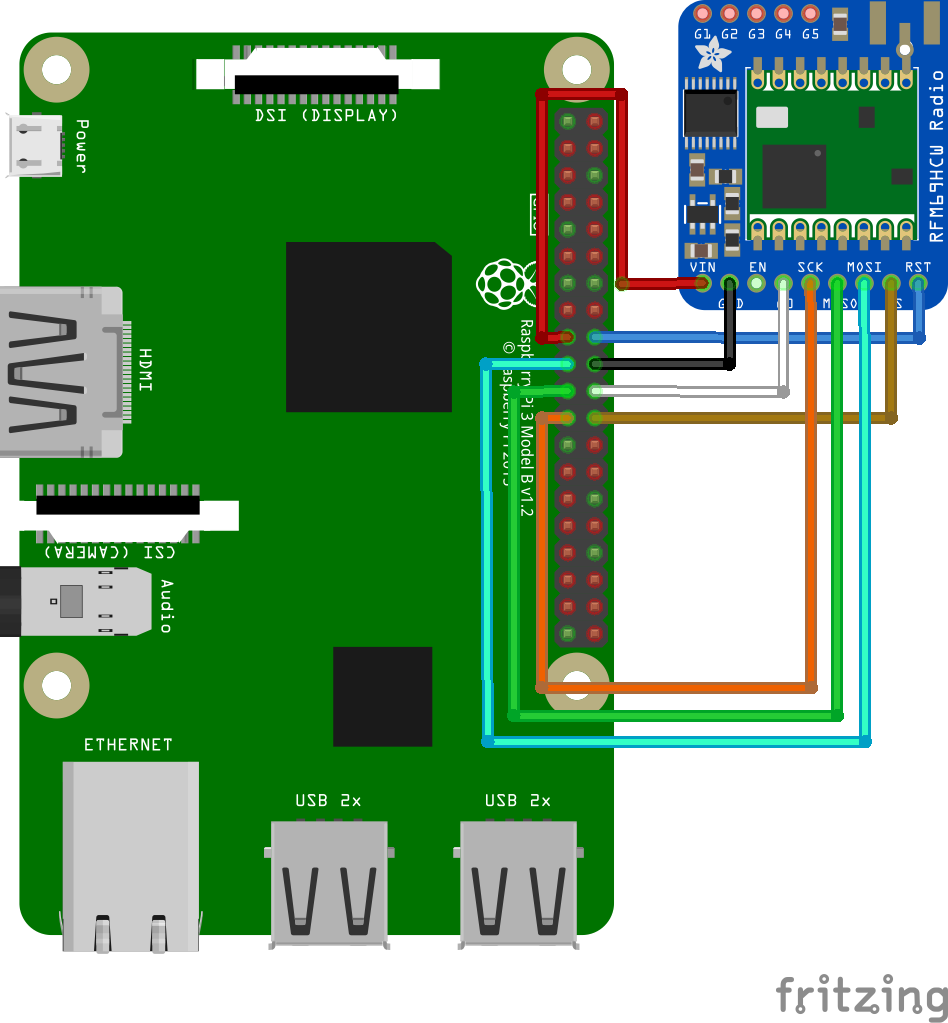
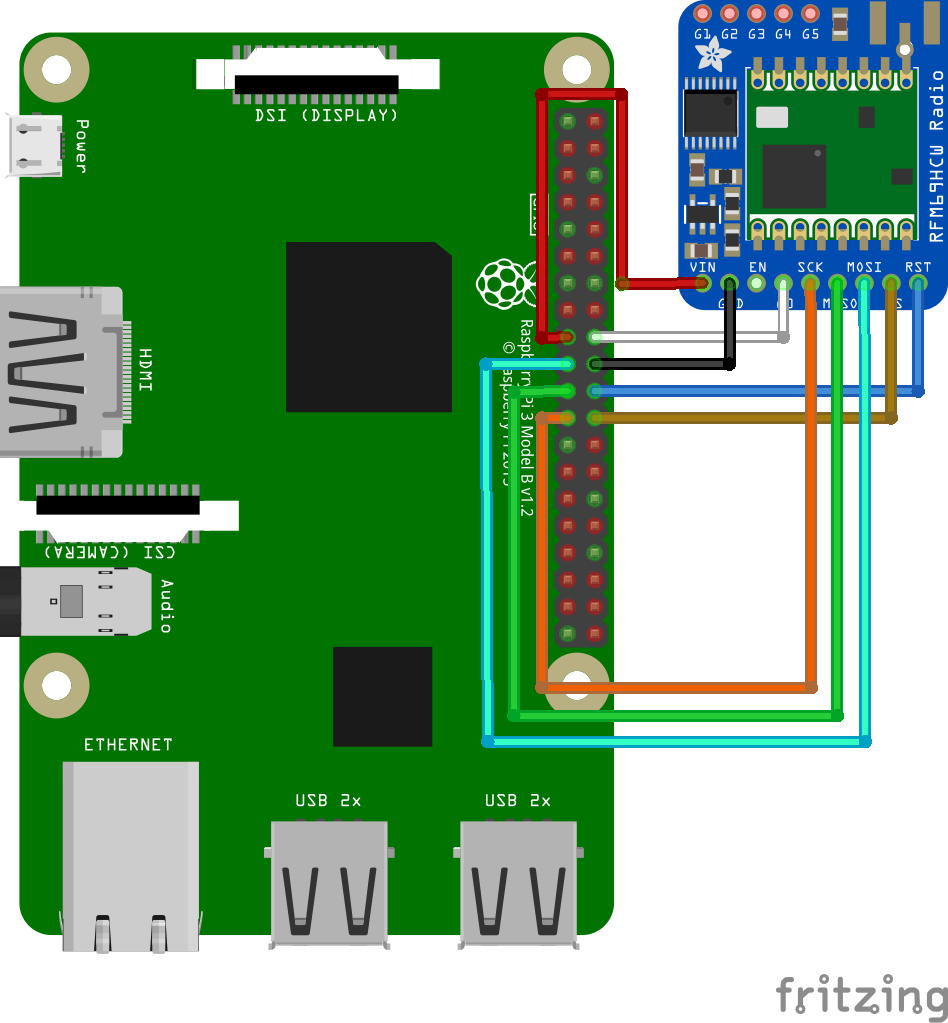
Fixing the wiring diagram

Changed region(s): [[0.6118, 0.303, 0.9789, 0.3939]]

diff --git a/docs/source/hookup.rst b/docs/source/hookup.rst
@@ -18,7 +18,7 @@ Pinout guide
 
     PI Name, 3v3 [#f1]_ ,	Ground,	MOSI, MISO, SCLK, ID_SC [#f2]_ , CE0	 
     PI GPIO [#f3]_, , , 10, 9, 11, , 8, 5
-    PI Pin, 17, 25, 19, 21, 23, 18, 24, 22
+    PI Pin, 17, 20, 19, 21, 23, 18, 24, 22
     Adafruit, Vin, GND, MOSI, MISO, CLK, G0, CS, RST
     Sparkfun, 3.3v, GND, MOSI,	MISO, SCK, DIO0, NSS, RESET
 
